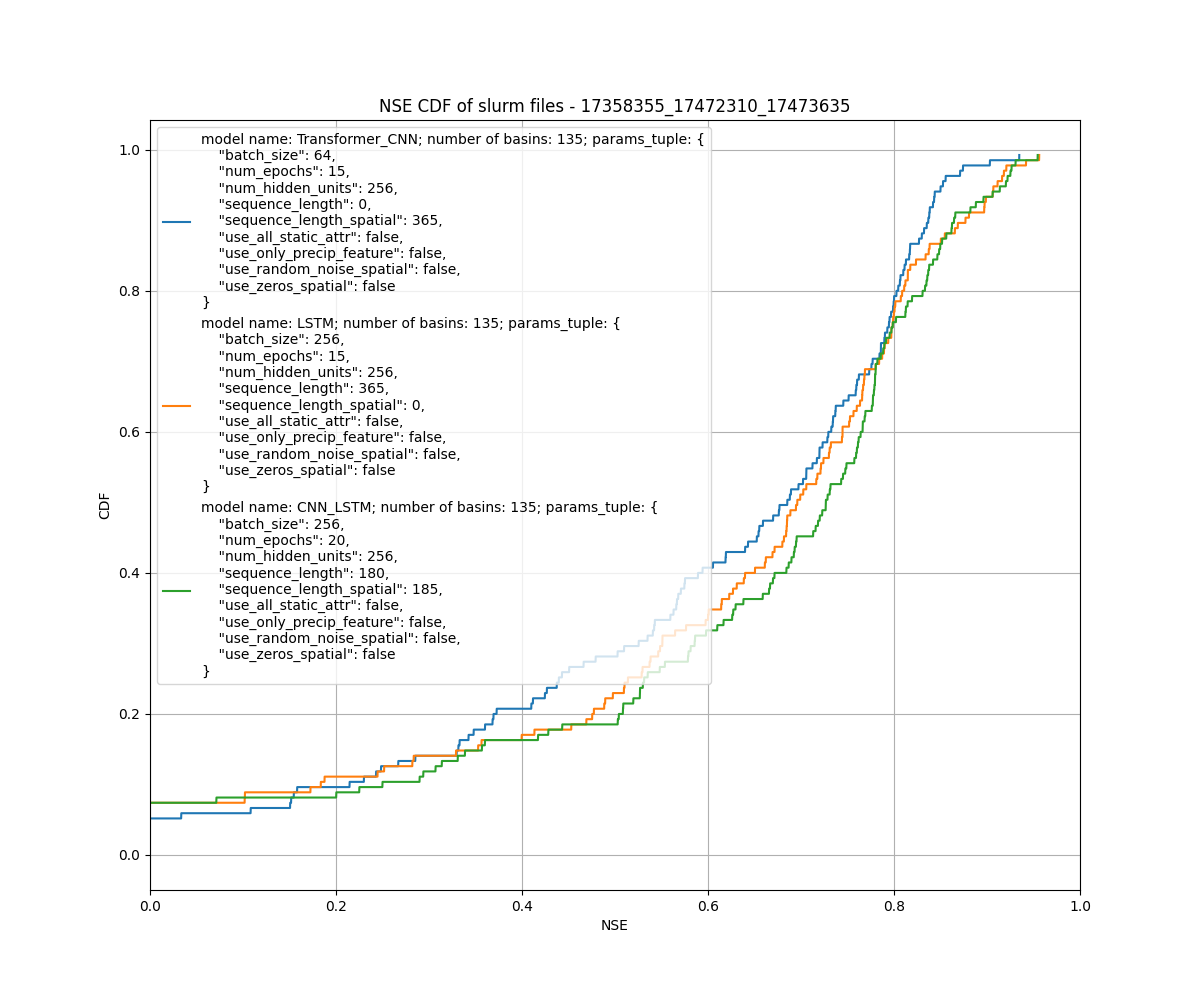
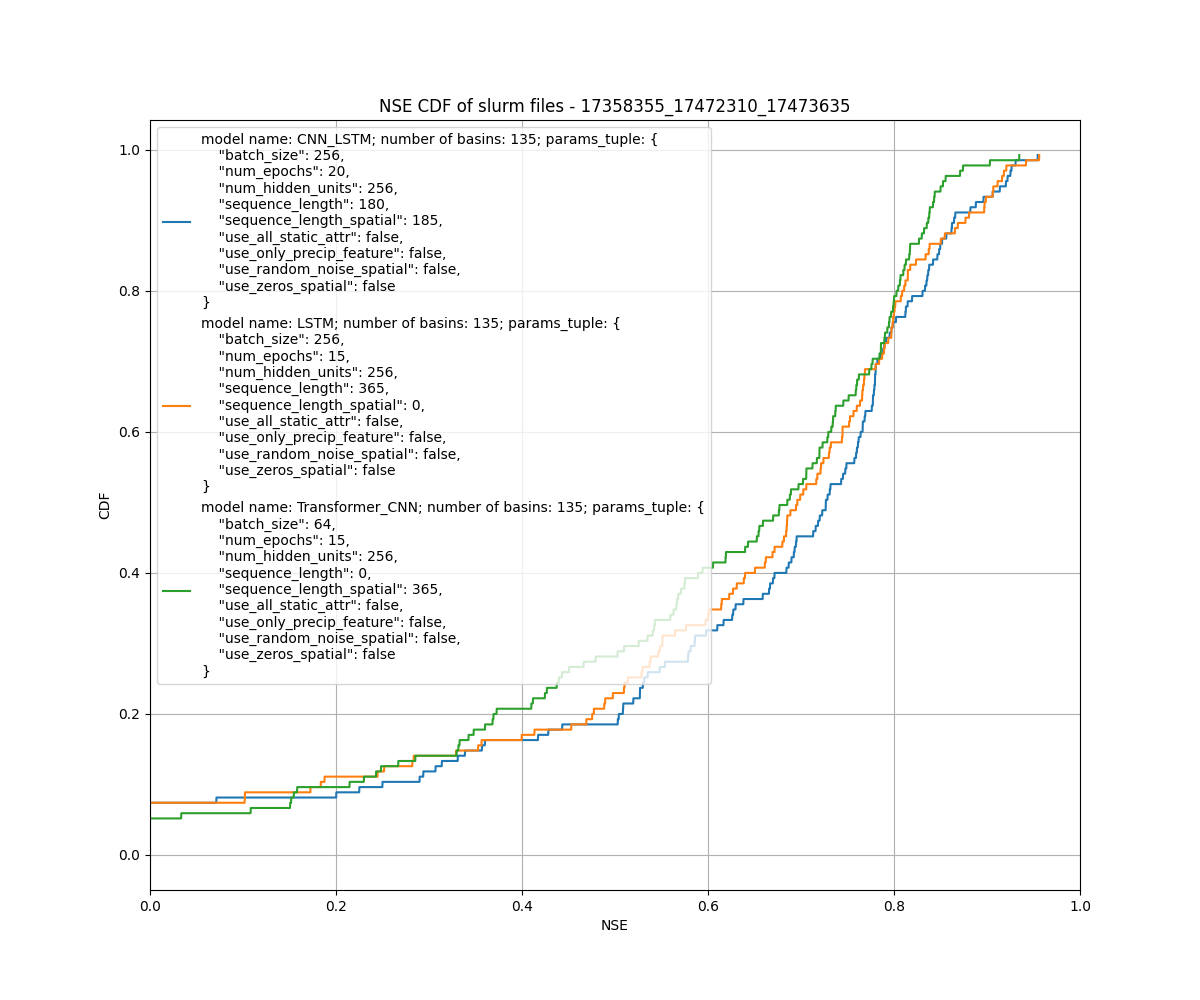
adding loading checkpoint according to loss + adsing plots

diff --git a/src/create_CDF_NSE_comparison_plot_from_slurm_output.py b/src/create_CDF_NSE_comparison_plot_from_slurm_output.py
@@ -125,7 +125,7 @@ def create_dict_basin_id_to_NSE_my_code(logs_filename):
 
 
 def plot_NSE_CDF_graphs_my_code():
-    input_file_names = ["slurm-17358355.out", "slurm-17472310.out", "slurm-17473635.out"]
+    input_file_names = ["slurm-17475381.out", "slurm-17472310.out"]
     input_file_paths = [Path("../slurm_output_files/" + file_name).resolve() for file_name in input_file_names]
     dict_all_files = {}
     for input_file_path in input_file_paths:
@@ -148,6 +148,8 @@ def plot_NSE_CDF_graphs_my_code():
                         continue
                     print(f"number of basins of model with name: {model_name} "
                           f"and run number: {run_number} is: {len(basin_tuple)}")
+                    if len(basin_tuple) != 135:
+                        continue
                     plot_CDF_NSE_basins(dict_all_files[(model_name, run_number, basin_tuple, params_dict)], params_dict,
                                         model_name=model_name,
                                         num_basins=len(basin_tuple))

diff --git a/src/FloodML_runner.py b/src/FloodML_runner.py
@@ -955,13 +955,16 @@ def main():
                 .replace(f"_{suffix_checkpoint_file_name}.pt", "")), reverse=True)[:]
         params_to_check = {k: args[k] for k in PARAMS_NAMES_TO_CHECK}
         latest_file = None
+        min_loss = None
         for file_name in list_of_files_sorted_by_creation_date:
             checkpoint = torch.load(file_name)
             if "params_dict" in checkpoint.keys():
                 params_dict = checkpoint["params_dict"]
                 if params_dict == params_to_check:
-                    latest_file = file_name
-                    break
+                    loss = checkpoint["loss"]
+                    if min_loss is None or loss < min_loss:
+                        min_loss = loss
+                        latest_file = file_name
         print(f"loading checkpoint from file: {latest_file}")
         args["checkpoint_path"] = latest_file
     params_dict_from_args = {k: args[k] for k in PARAMS_NAMES_TO_CHECK}
